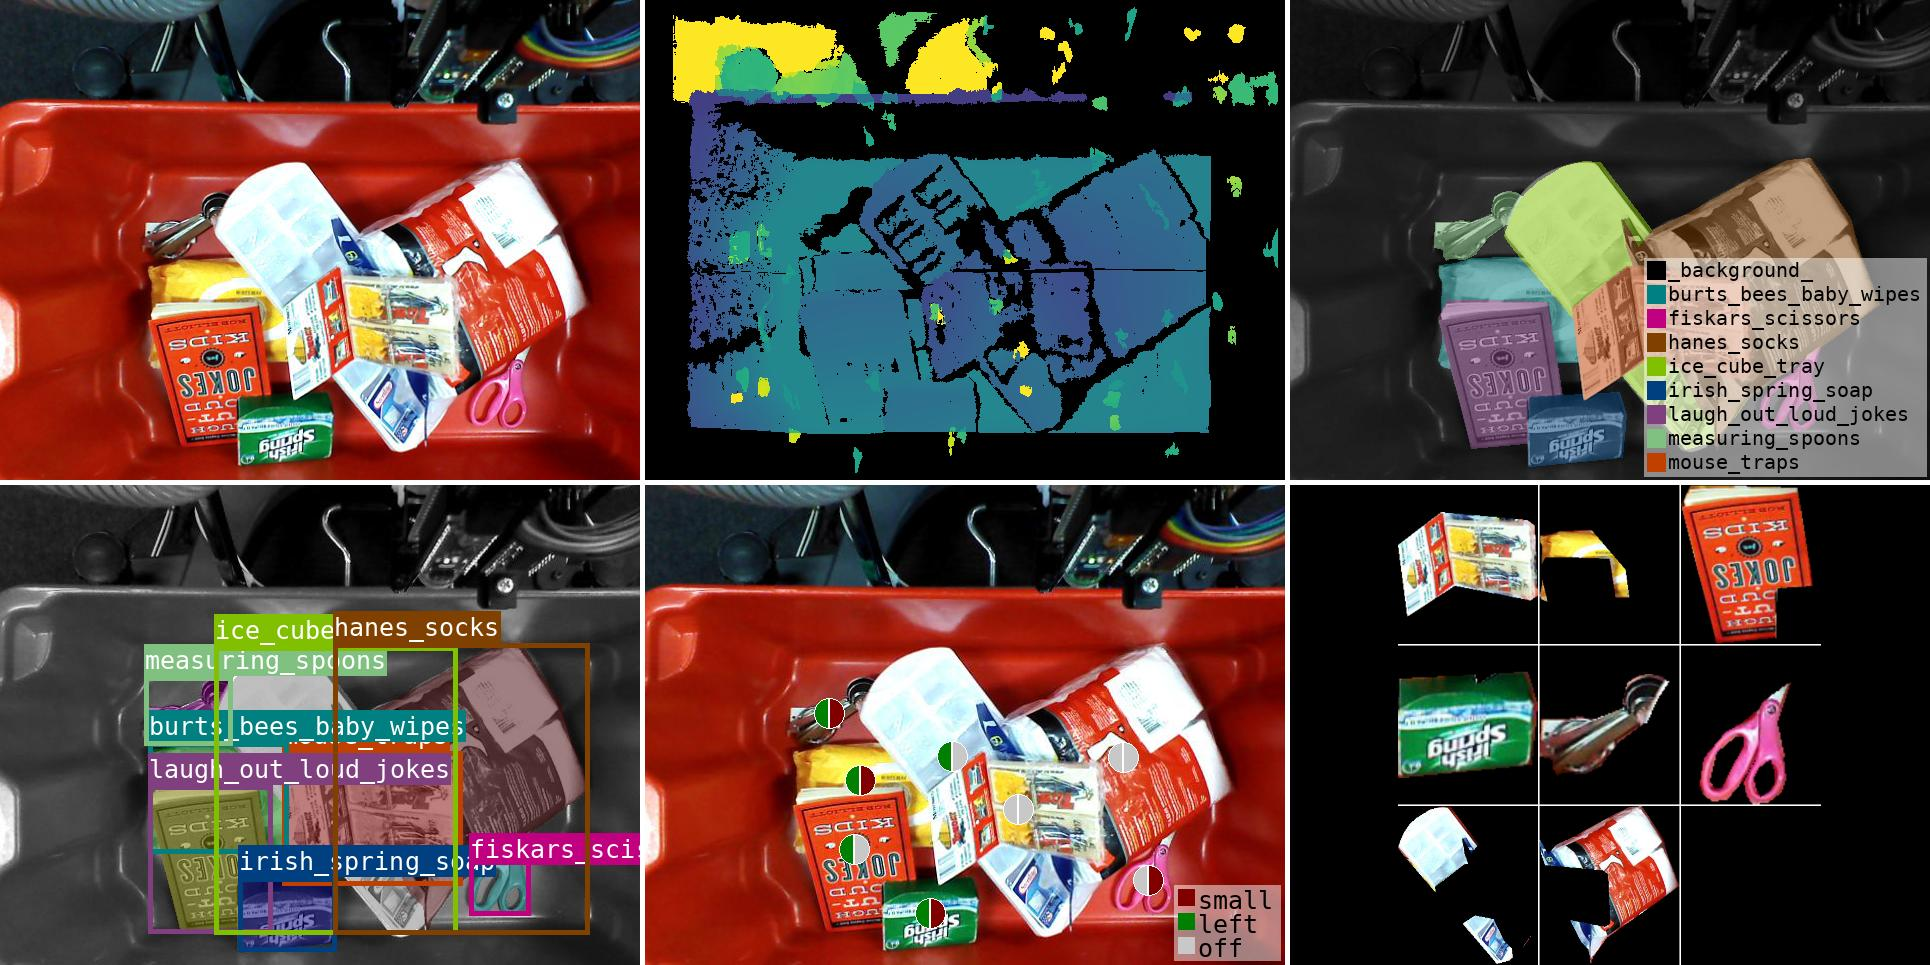
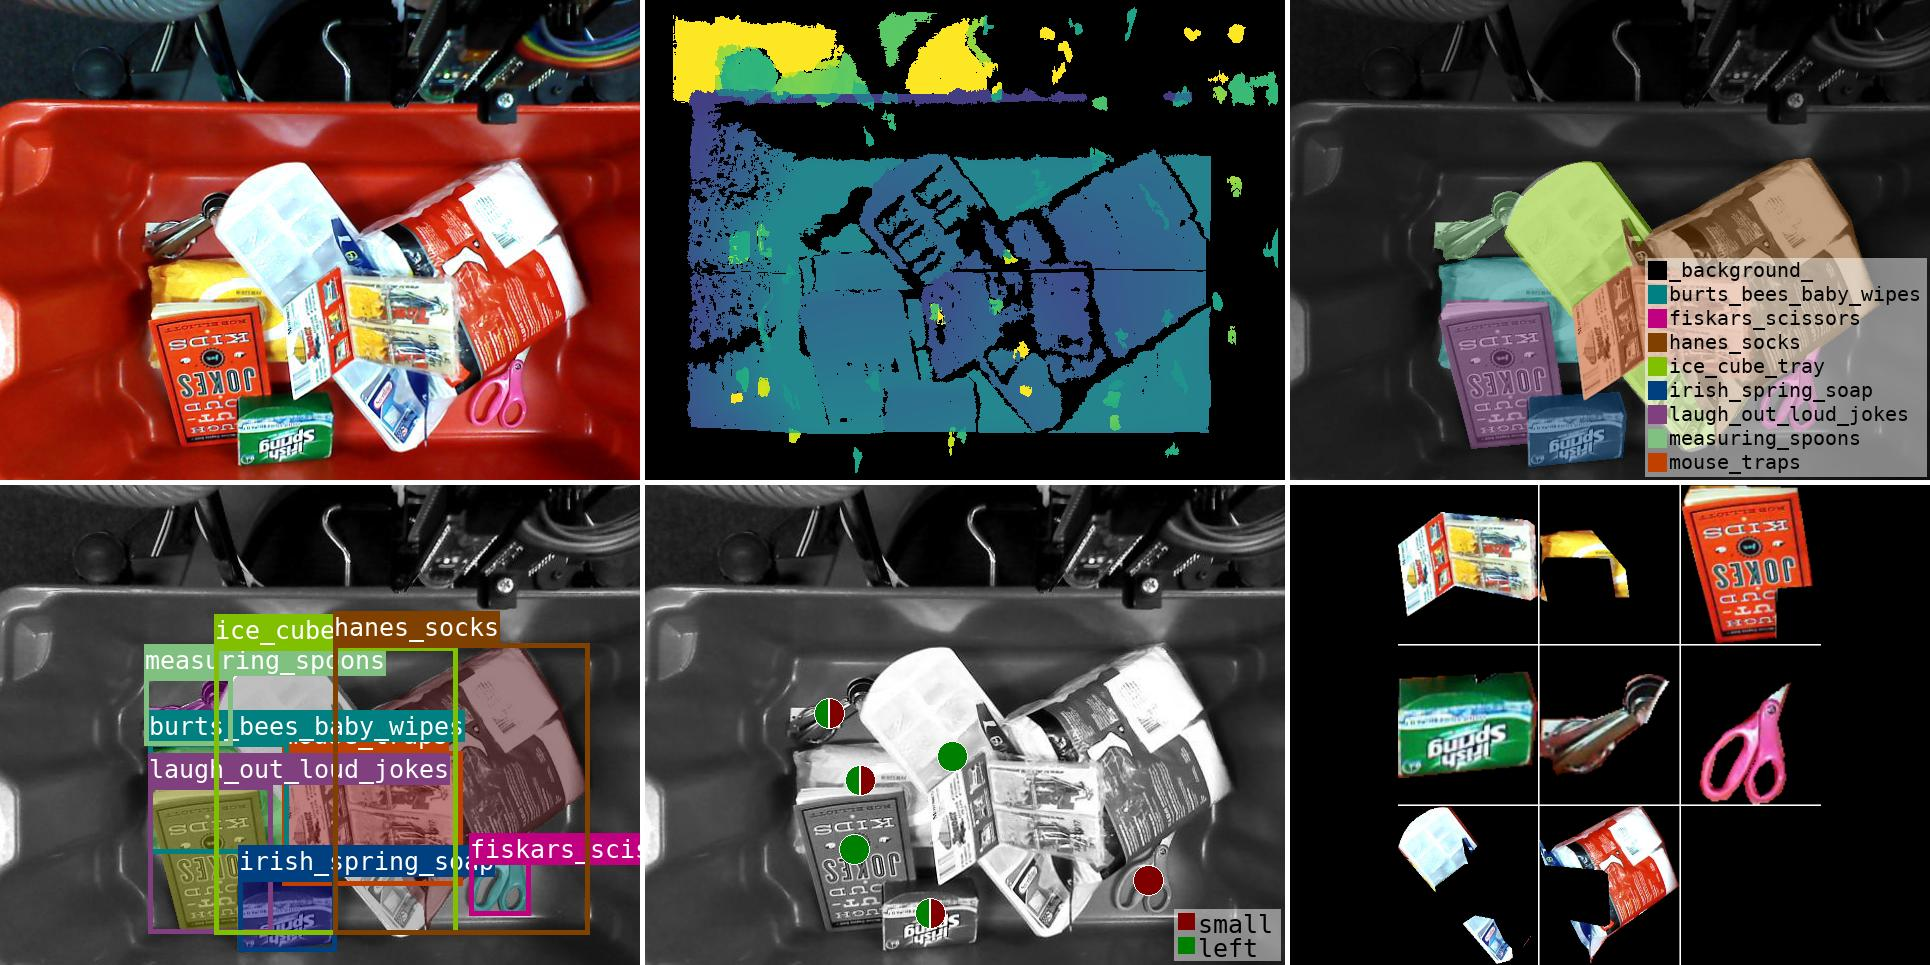
Merge pull request #191 from wkentaro/docs/gray-flagviz-background
docs: gray out flagviz background in getting started example

Pull request: docs: gray out flagviz background in getting started example
The flag pie glyphs in the Getting Started montage were drawn over the full-color rgb image, so they were hard to read against the bright tray. Use the grayscale image as the background (consistent with the label and mask panels), and switch to `wedges="on"` so only active flags get a colored wedge.

![getting_started](https://github.com/wkentaro/imgviz/raw/dda22038f13fe368eac1259bf260100225e99ded/assets/getting_started.jpg)

## Test plan
- [x] `uv run python getting_started.py` regenerates `assets/getting_started.jpg`

diff --git a/getting_started.py b/getting_started.py
@@ -41,7 +41,7 @@ flags = np.column_stack(
     (masks.sum(axis=(1, 2)) < 7000, centers[:, 1] < rgb.shape[1] / 2)
 )
 flagviz = imgviz.flags2rgb(
-    rgb, flags=flags, centers=centers, flag_names=["small", "left"], wedges="all"
+    gray, flags=flags, centers=centers, flag_names=["small", "left"], wedges="on"
 )
 
 # tile instance masks

diff --git a/README.md b/README.md
@@ -80,7 +80,7 @@ flags = np.column_stack(
     (masks.sum(axis=(1, 2)) < 7000, centers[:, 1] < rgb.shape[1] / 2)
 )
 flagviz = imgviz.flags2rgb(
-    rgb, flags=flags, centers=centers, flag_names=["small", "left"], wedges="all"
+    gray, flags=flags, centers=centers, flag_names=["small", "left"], wedges="on"
 )
 
 # tile instance masks